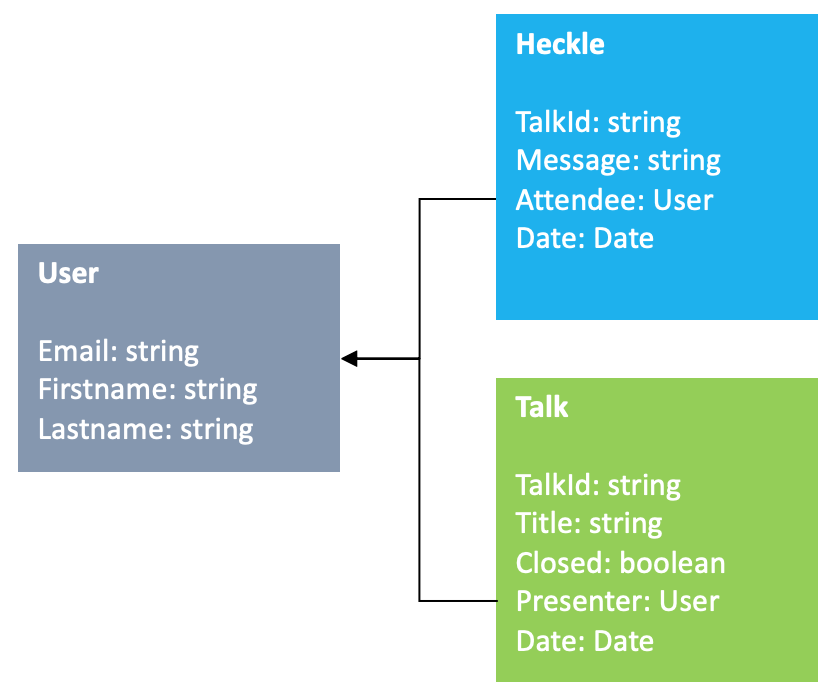
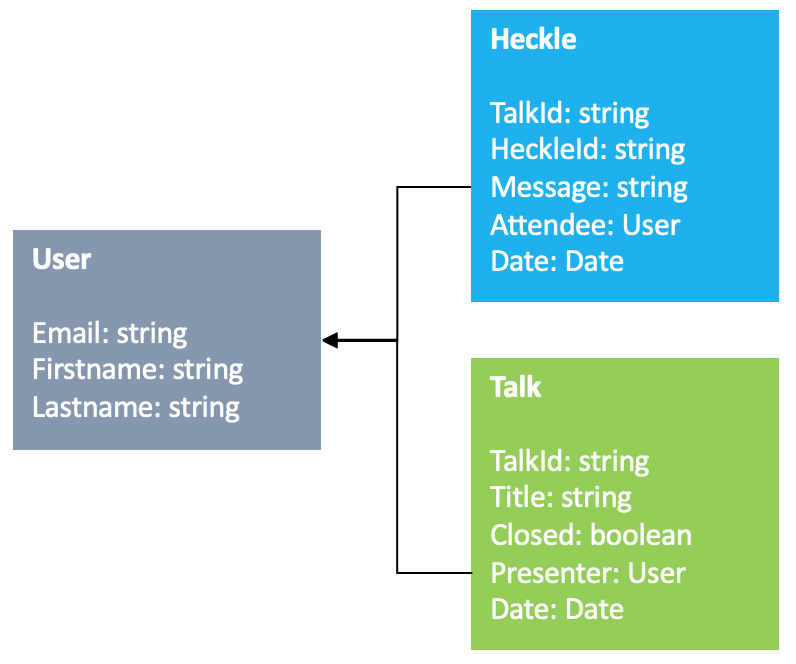
updated data model

Changed region(s): [[0.0, 0.0, 0.995, 0.994]]

diff --git a/README.md b/README.md
@@ -62,14 +62,13 @@ The Heckle Solution is build as progressive web application to give the impressi
 
  1. ... cache application data to reduce loading time.
 
-
 **Architectureal benefits**: Fosters platform independency, portable and open.
 
 ### Data Model
 
 The data model below depicts the data stored to the data tier. The following list provides key considerations for that data model.
 
-<img alt="data model" align="left" src="images/datamodel.png" width="350">
+<img alt="data model" align="left" src="images/datamodel.png" width="290">
 
 * Heckles and Talks are stored independently in order to prevent contengency when 400 atendees heckling about the same talk.
 
@@ -77,6 +76,5 @@ The data model below depicts the data stored to the data tier. The following lis
     1. The id matches the resource endpoint in the integration layer of the backend service.
 
     1. The id can be used to easily query all heckles of a talk or a specific heckle.
-
 
 **Architectural benefits**: scaleability, maintaibability
